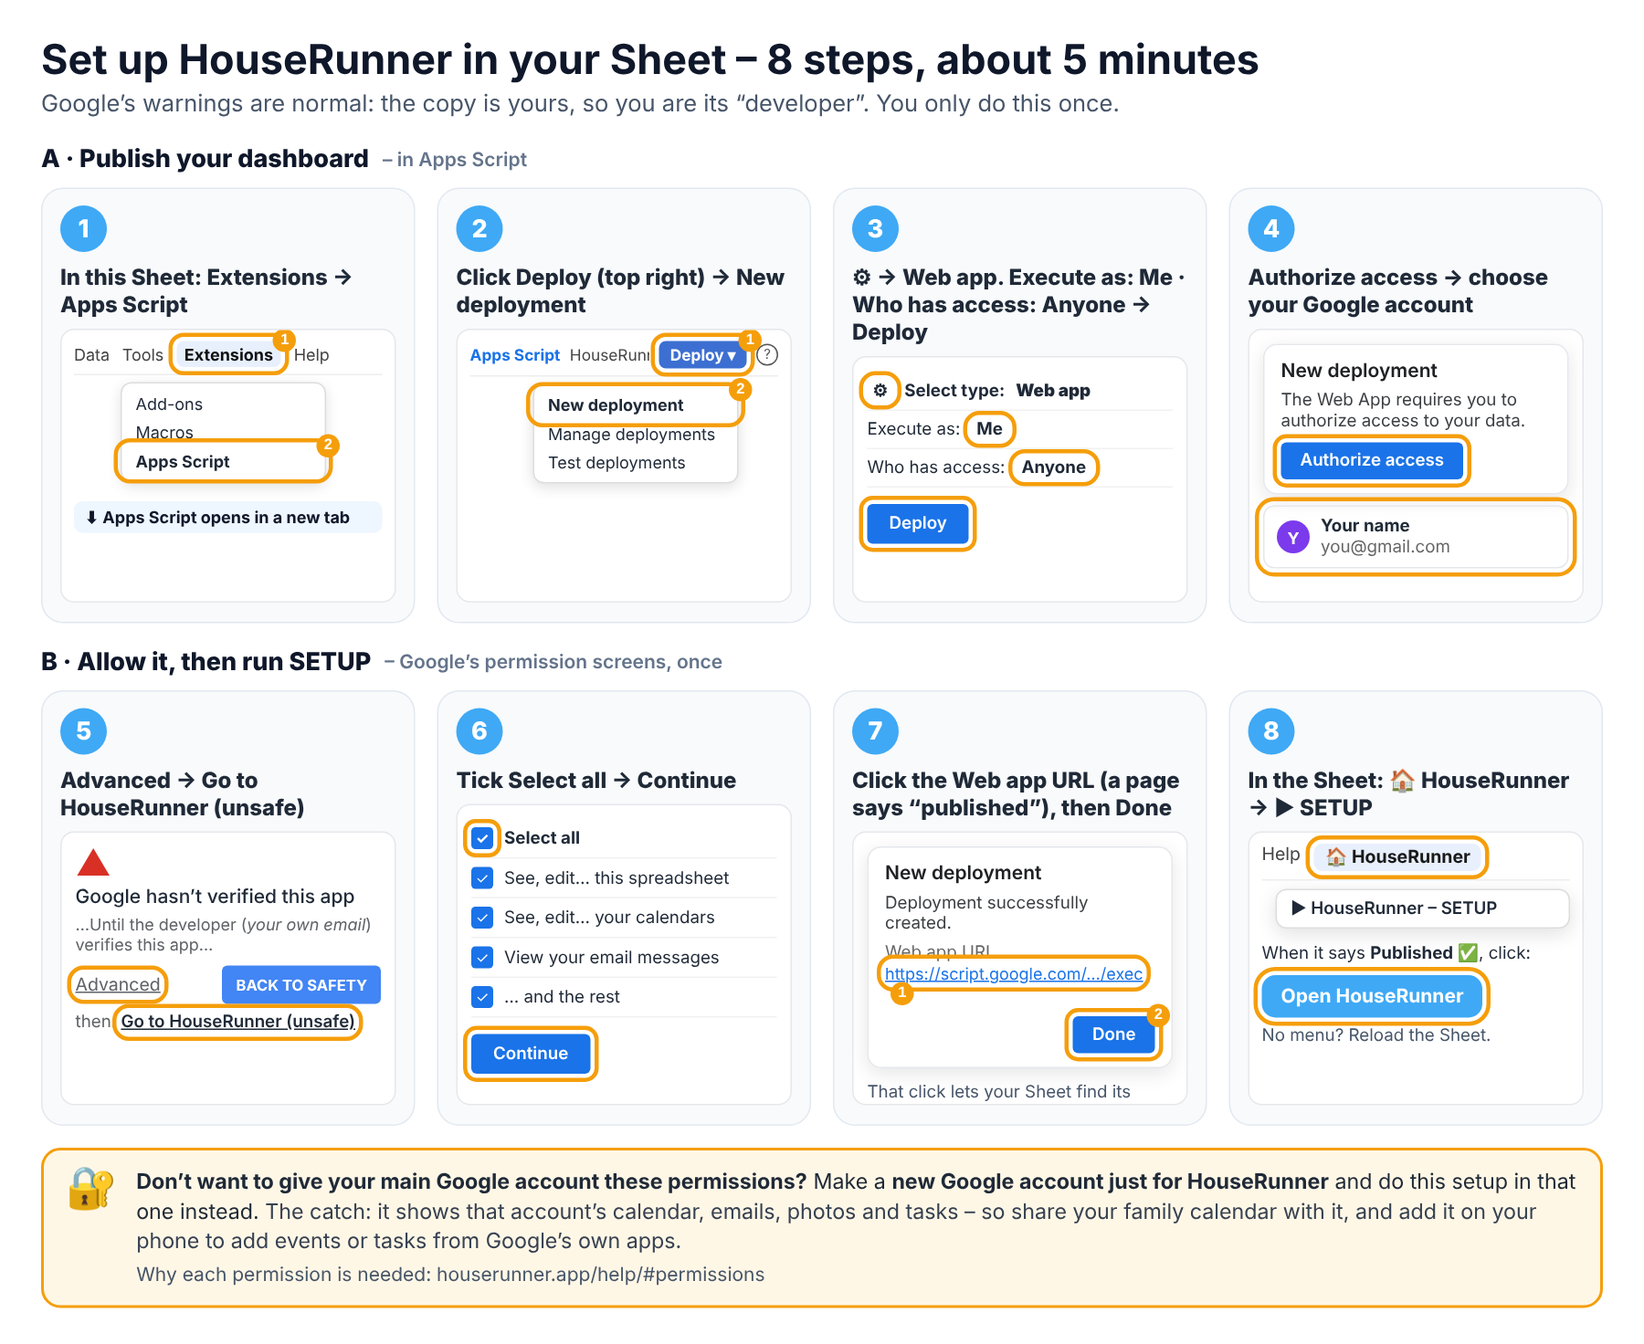
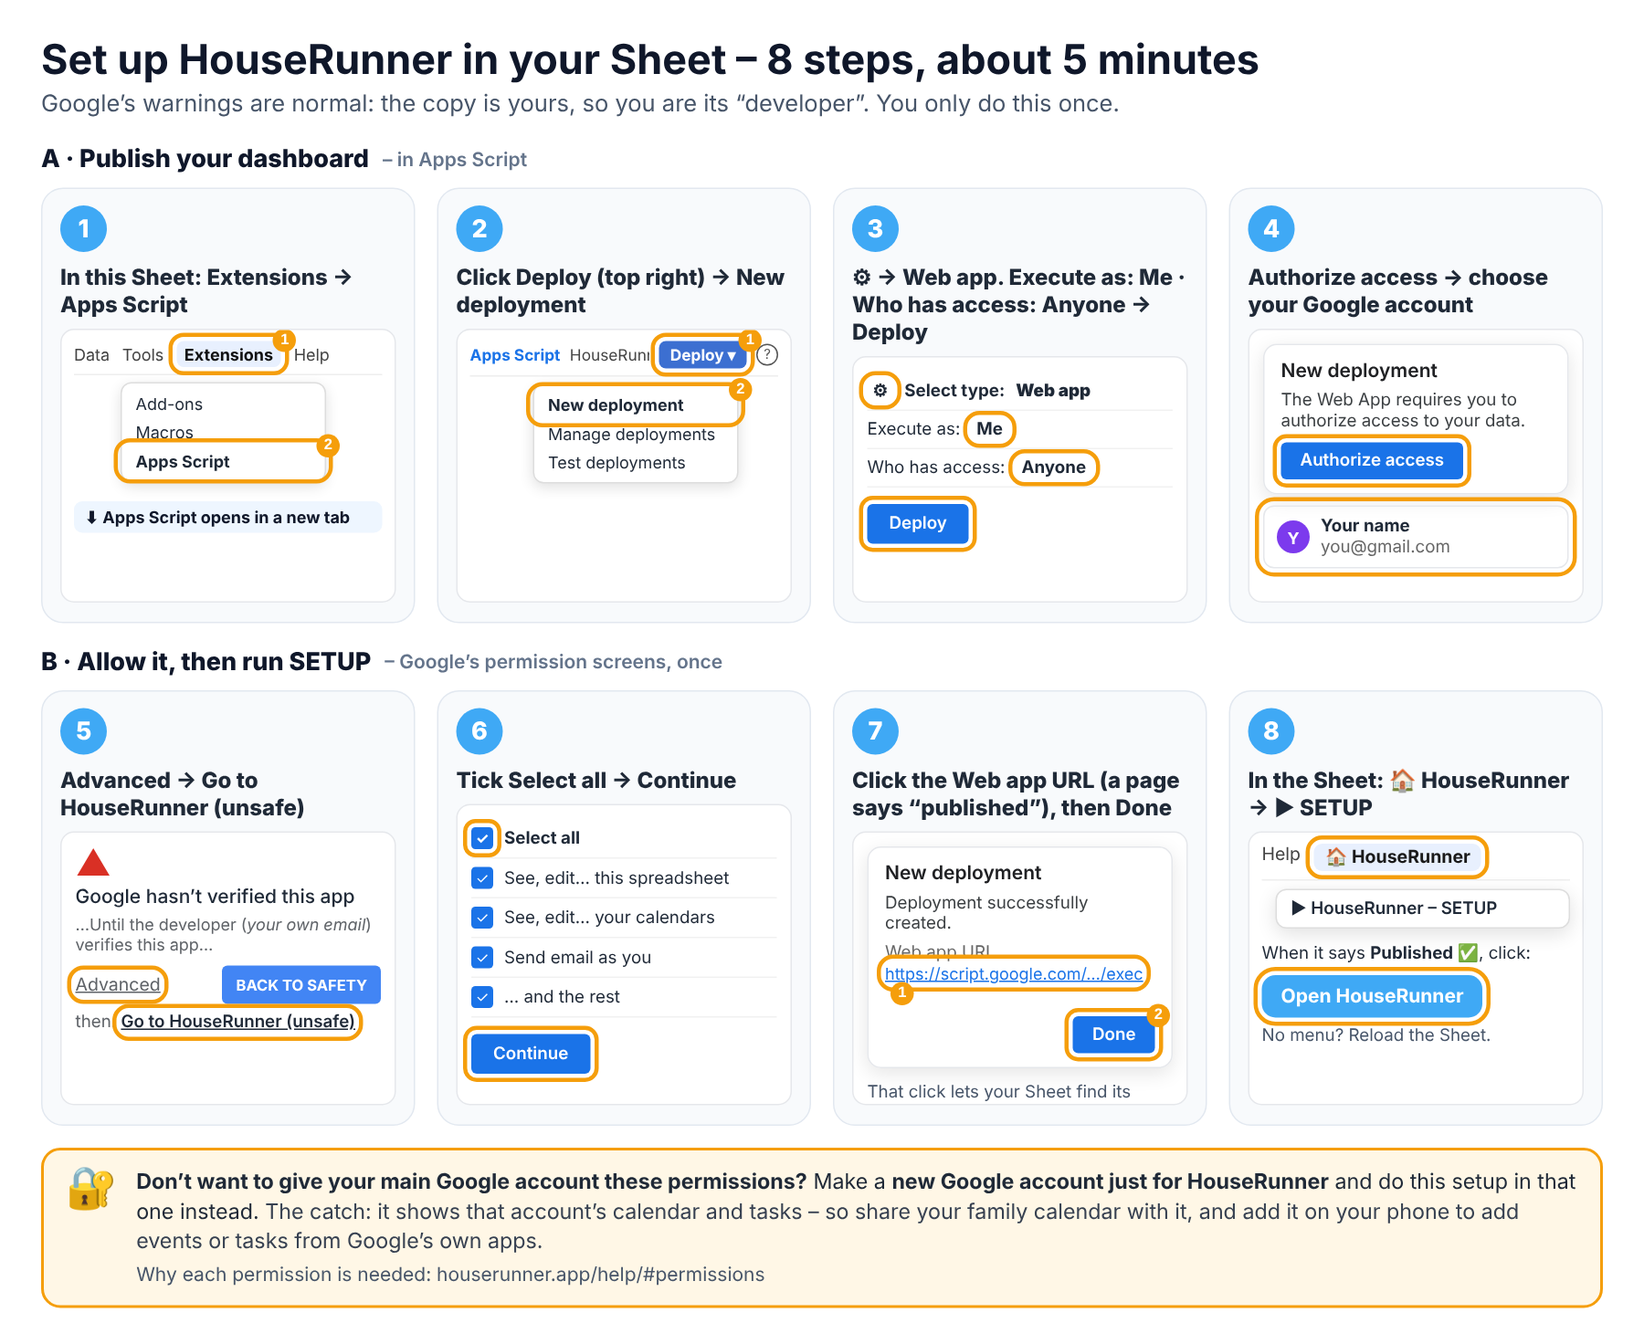
2026.11.285: no Gmail reading or Drive permission; Parcels removed
Claude-Session: https://claude.ai/code/session_01R2kV4GW3UVFR51NzUKtdLQ

Changed region(s): [[0.4356, 0.875, 0.9333, 0.9062], [0.0933, 0.9062, 0.4044, 0.9375], [0.3111, 0.6875, 0.4356, 0.7188]]

diff --git a/setup/guide/setup.js b/setup/guide/setup.js
@@ -17,14 +17,12 @@
             '<p><b>All of them are needed</b> – please leave every box ticked (setup asks again for any that aren’t):</p><ul class="mute">' +
             '<li><b>This spreadsheet</b> (“the spreadsheets this application has been installed in”) – your family’s information is kept in your own Sheet. It can’t see your other spreadsheets.</li>' +
             '<li><b>Google Calendar</b> – the calendar, adding events, birthdays and the holiday countdown.</li>' +
-            '<li><b>Gmail, read only</b> (“view your email messages”) – the <b>Parcels</b> widget finds delivery emails. It can’t change or delete anything.</li>' +
             '<li><b>Send email as you</b> – emails <b>you</b> a backup of your private links.</li>' +
-            '<li><b>Google Drive (see files)</b> – the <b>Photo slideshow</b> from a folder you choose.</li>' +
             '<li><b>Google Tasks</b> – the <b>To-Do List (Google)</b>.</li>' +
             '<li><b>Connect to an external service</b> – fetching the HouseRunner program, live information (weather, trains, traffic…) and the licence check.</li>' +
             '<li><b>Display content in prompts and sidebars</b> – the 🏠 HouseRunner menu in your Sheet. <b>Run when you’re not present</b> – the timers that keep it up to date.</li>' +
             '<div class="note warn"><b>Don’t want to give your main Google account these permissions?</b> Make a <a href="https://accounts.google.com/signup" target="_blank" rel="noopener">new Google account just for HouseRunner</a> and do this setup signed in to that one. ' +
-            'The catch: it shows that account’s calendar, emails, photos and tasks – so share your family calendar with it, and add it on your phone to add events or tasks from Google’s own apps.</div>' +
+            'The catch: it shows that account’s calendar and tasks – so share your family calendar with it, and add it on your phone to add events or tasks from Google’s own apps.</div>' +
             '</div>';
     }
     function save() { try { localStorage.setItem(KEY, JSON.stringify(S)); } catch (e) { /* ignore */ } }
@@ -170,11 +168,11 @@
                     '<li><b>Your phone</b> – you’ll put the <b>Family Admin</b> app on it. It’s important: if this website ever forgets your family, the app is how you connect it again (we’ll also email you a backup link).</li></ul>' +
                     '<p class="mute small">No licence key yet? That’s fine – you get a 14-day free trial and can add it later. No display yet? You can try the dashboard in another tab on this computer.</p></div>' +
                 '<div class="note"><h3>🔐 Before you start: Google will ask for permissions</h3>' +
-                    '<p>HouseRunner runs as a small program in a Google Sheet in <b>your</b> Google account, so Google asks you to allow it to use parts of that account – Sheets, Calendar, Gmail (for the Parcels widget), Drive (for photos), Tasks. ' +
+                    '<p>HouseRunner runs as a small program in a Google Sheet in <b>your</b> Google account, so Google asks you to allow it to use parts of that account – Sheets, Calendar, Tasks, and sending you an email. ' +
                     'Google shows a red “Google hasn’t verified this app” page on the way: that’s normal for your own private copy. When it lists the permissions, click <b>Select all</b> – HouseRunner needs every one. ' +
                     '<a href="../../help/#permissions" target="_blank" rel="noopener">Why each permission is needed ›</a></p>' +
                     '<p><b>Rather keep it away from your main Google account?</b> You can <a href="https://accounts.google.com/signup" target="_blank" rel="noopener">make a new Google account</a> just for HouseRunner, and do this whole setup signed in to that one. ' +
-                    'The catch: the calendar, Gmail parcels, photos and Google Tasks it shows are that account’s, not your main one’s – so share your family calendar with the new account (Google Calendar → Settings → Share with specific people), ' +
+                    'The catch: the calendar and Google Tasks it shows are that account’s, not your main one’s – so share your family calendar with the new account (Google Calendar → Settings → Share with specific people), ' +
                     'and to add events or tasks from your phone’s own Google apps, add the new account on your phone too. HouseRunner’s own phone apps work either way.</p></div>' +
                 '<div class="card big"><h3>How it works</h3>' +
                 '<p>HouseRunner is standard software that runs on your display and your phones. Everything that belongs to your family – names, the calendar, ' +

diff --git a/shared/privacy.js b/shared/privacy.js
@@ -3,12 +3,12 @@
  * (Plain English draft – have it checked before giving the dashboard to people outside your own family.)
  */
 window.FD_PRIVACY = {
-    version: '6',
+    version: '7',
     updated: '8 November 2026',
     summary: [
         'Your family’s information is kept in <b>your own Google account</b> (a Google Sheet and script you own). The people who make HouseRunner can’t see it.',
         'To show live information, your Google script sends small pieces of information to the services you turn on – mainly <b>your home location</b> (for weather, traffic, buses and flights), your <b>postcode</b> (bins) and your <b>API keys</b>.',
-        'The <b>Parcels</b> widget reads delivery emails in your Gmail, and the screen shows the sender and subject line. Calendar, Tasks, Drive photos and Spotify are only used if you turn those widgets on.',
+        'HouseRunner can’t read your email or your Google Drive. Calendar, Tasks and Spotify are only used if you turn those widgets on; the photo slideshow shows a Drive folder or Google Photos album only if you share it by link.',
         'Anyone with your <b>setup links or access code</b> can see and change your dashboard. Only give them to your family.',
         'Once a day your script checks your <b>licence key</b> with the seller’s licence server. It sends only the key, a random number for this dashboard and the version number.',
         'Live information comes from other services and may be wrong or late. Don’t rely on it for anything important or safety-critical.',
@@ -16,12 +16,10 @@ window.FD_PRIVACY = {
     full: '' +
         '<h3>Who holds your information</h3><p>Everything you put into HouseRunner – children’s names, points, tasks, reminders, notes, lists, settings and API keys – is stored in a Google Sheet in your own Google account, and is processed by a Google script that you publish from that Sheet. The people who make and host HouseRunner do not receive or store any of it. You can see it all in the Sheet, and you can delete it at any time by deleting the Sheet (and its web app deployment).</p>' +
         '<h3>What the app files are</h3><p>The dashboard, Family Admin and the website are all web pages at houserunner.app, hosted on GitHub Pages. When a device loads them, GitHub (like any website) receives the device’s IP address. The pages then talk only to your own Google script. The website and its welcome page load a QR-code library from cdnjs.cloudflare.com.</p>' +
-        '<h3>Google permissions</h3><p>When you set up your Sheet, Google asks you to allow nine things. Some are worded broadly (“all” your calendars or files) because Google doesn’t offer narrower versions for a script like this. What HouseRunner actually does with each:</p><ul>' +
+        '<h3>Google permissions</h3><p>When you set up your Sheet, Google asks you to allow seven things. Some are worded broadly (“all” your calendars) because Google doesn’t offer narrower versions for a script like this. What HouseRunner actually does with each:</p><ul>' +
         '<li><b>This spreadsheet</b> – reads and writes your own HouseRunner Sheet. It has no access to your other spreadsheets.</li>' +
         '<li><b>Calendar</b> – shows your family calendar’s events, and adds or changes the ones you enter in HouseRunner.</li>' +
-        '<li><b>Gmail, read only</b> – the Parcels widget reads delivery emails. It can’t change, send or delete any email.</li>' +
         '<li><b>Send email as you</b> – HouseRunner emails you a backup of your private links.</li>' +
-        '<li><b>Drive</b> (“see and download”) – the photo slideshow reads the folder you choose.</li>' +
         '<li><b>Tasks</b> – the To-Do List (Google) widget.</li>' +
         '<li><b>Connect to an external service</b> – weather, traffic, trains, bins and the other widgets you switch on (listed below), and HouseRunner’s licence check.</li>' +
         '<li><b>Run when you’re not present</b> – the timers that keep the dashboard up to date overnight.</li>' +

diff --git a/help/topics.js b/help/topics.js
@@ -22,9 +22,7 @@ window.FD_HELP = [
 <ul>
 <li><b>See, edit, create and delete only the specific spreadsheets this application has been installed in</b> – your family’s information is kept in your own Sheet. HouseRunner can’t see your other spreadsheets.</li>
 <li><b>Google Calendar</b> – the calendar screen, adding events, Today &amp; tomorrow, birthdays and the holiday countdown.</li>
-<li><b>View your email messages and settings</b> (Gmail, read only) – the <b>Parcels</b> widget looks for delivery emails. It can’t change, send or delete anything.</li>
 <li><b>Send email as you</b> – HouseRunner emails <b>you</b> a backup of your private links.</li>
-<li><b>Google Drive</b> (see and download files) – the <b>Photo slideshow</b> from a folder you choose. Read only.</li>
 <li><b>Google Tasks</b> – the <b>To-Do List (Google)</b>.</li>
 <li><b>Connect to an external service</b> – downloading the HouseRunner program, live information (weather, trains, buses, traffic, flights, news) and the daily licence check.</li>
 <li><b>Display and run third-party web content in prompts and sidebars</b> – the 🏠 HouseRunner menu and its windows in your Sheet.</li>
@@ -32,7 +30,7 @@ window.FD_HELP = [
 </ul>
 <p>If one is unticked, ▶ HouseRunner – SETUP asks again until all are allowed. If one is taken away later, only the part that needs it stops, and says which permission it needs.</p>
 <h2>Rather not give your main Google account these permissions? Use a separate one</h2>
-<p>If you’d rather not give your main Google account these permissions, make a <a href="https://accounts.google.com/signup" target="_blank" rel="noopener">new Google account</a> just for HouseRunner and do the setup signed in to it. The catch: the calendar, parcels, photos and tasks it shows are that account’s. Share your family calendar with the new account (Google Calendar → ⚙ Settings → your calendar → <b>Share with specific people</b>, “Make changes to events”), and add the new account on your phone if you want to add events or tasks from Google’s own apps. HouseRunner’s phone apps work either way.</p>
+<p>If you’d rather not give your main Google account these permissions, make a <a href="https://accounts.google.com/signup" target="_blank" rel="noopener">new Google account</a> just for HouseRunner and do the setup signed in to it. The catch: the calendar and tasks it shows are that account’s. Share your family calendar with the new account (Google Calendar → ⚙ Settings → your calendar → <b>Share with specific people</b>, “Make changes to events”), and add the new account on your phone if you want to add events or tasks from Google’s own apps. HouseRunner’s phone apps work either way.</p>
 `
   },
   {
@@ -217,7 +215,7 @@ window.FD_HELP = [
     id: 'account', icon: '📦', title: 'Move to a different Google account',
     summary: 'You can move the whole dashboard to another Google account – for example a Gmail account just for the dashboard – and keep everything.',
     body: `
-<p>Some families prefer the dashboard’s permissions (calendar, Gmail for parcels…) to be on a separate Google account rather than their main one. Moving takes about 10 minutes and nothing is lost.</p>
+<p>Some families prefer the dashboard’s permissions (calendar, tasks…) to be on a separate Google account rather than their main one. Moving takes about 10 minutes and nothing is lost.</p>
 <ol>
 <li>If you haven’t got one, make the new Google account (e.g. at gmail.com).</li>
 <li>On a computer (or in Family Admin): <b>System → My data (Google) → Move to a different Google account</b>. Type the new account’s email and press <b>Make a moving pack</b>. It gives you a link – copy it or send it to yourself.</li>

diff --git a/index.html b/index.html
@@ -24,11 +24,11 @@
         window.FD_DESK = true; window.FD_PHONE = !!phone;
     })();
     </script>
-    <link rel="stylesheet" href="shared/base.css?v=202611284">
-    <link rel="stylesheet" href="admin/admin.css?v=202611284">
-    <link rel="stylesheet" href="setup/desk.css?v=202611284">
-    <link rel="stylesheet" href="setup/editor.css?v=202611284">
-    <link rel="stylesheet" href="admin/phone.css?v=202611284">
+    <link rel="stylesheet" href="shared/base.css?v=202611285">
+    <link rel="stylesheet" href="admin/admin.css?v=202611285">
+    <link rel="stylesheet" href="setup/desk.css?v=202611285">
+    <link rel="stylesheet" href="setup/editor.css?v=202611285">
+    <link rel="stylesheet" href="admin/phone.css?v=202611285">
     <style>
 #landing { min-height: 100vh; }
 #landing .ld-wrap { max-width: 1100px; margin: 0 auto; padding: 30px 18px 50px; }
@@ -206,20 +206,20 @@
     </div></div>
     <!-- Connected: houserunner.app (computer) or Family Admin (phone) – the same app. -->
     <div id="app"></div>
-    <script src="shared/storecheck.js?v=202611284"></script>
-    <script src="shared/fd.js?v=202611284"></script>
-    <script src="dashboard/scripts/platform.js?v=202611284"></script>
-    <script src="shared/pair.js?v=202611284"></script>
-    <script src="shared/qrcode.js?v=202611284"></script>
-    <script src="shared/privacy.js?v=202611284"></script>
-    <script src="shared/countries.js?v=202611284"></script>
-    <script src="setup/config.js?v=202611284"></script>
-    <script src="help/topics.js?v=202611284"></script>
-    <script src="setup/editor.js?v=202611284"></script>
-    <script src="setup/calsetup.js?v=202611284"></script>
-    <script src="shared/icons.js?v=202611284"></script>
+    <script src="shared/storecheck.js?v=202611285"></script>
+    <script src="shared/fd.js?v=202611285"></script>
+    <script src="dashboard/scripts/platform.js?v=202611285"></script>
+    <script src="shared/pair.js?v=202611285"></script>
+    <script src="shared/qrcode.js?v=202611285"></script>
+    <script src="shared/privacy.js?v=202611285"></script>
+    <script src="shared/countries.js?v=202611285"></script>
+    <script src="setup/config.js?v=202611285"></script>
+    <script src="help/topics.js?v=202611285"></script>
+    <script src="setup/editor.js?v=202611285"></script>
+    <script src="setup/calsetup.js?v=202611285"></script>
+    <script src="shared/icons.js?v=202611285"></script>
     <!-- A phone gets Family Admin, written for the phone; a computer houserunner.app. -->
-    <script>document.write('<script src="admin/' + (window.FD_PHONE ? 'phone' : 'app') + '.js?v=202611284"><\/script>');</script>
+    <script>document.write('<script src="admin/' + (window.FD_PHONE ? 'phone' : 'app') + '.js?v=202611285"><\/script>');</script>
 <script>
  (function () {
    'use strict';

diff --git a/setup/guide/index.html b/setup/guide/index.html
@@ -6,8 +6,8 @@
     <title>HouseRunner Setup</title>
     <meta name="theme-color" content="#0c0e12">
     <link rel="icon" href="../../shared/brand/icon-192.png"><link rel="apple-touch-icon" href="../../shared/brand/apple-touch-icon.png">
-    <link rel="stylesheet" href="../editor.css?v=202611284">
-    <link rel="stylesheet" href="setup.css?v=202611284">
+    <link rel="stylesheet" href="../editor.css?v=202611285">
+    <link rel="stylesheet" href="setup.css?v=202611285">
 </head>
 <body>
     <header class="cfg-top"><a class="cfg-title hr-title" href="../../"><img src="../../shared/brand/mark.svg" alt="" class="hr-mini"><span>House<span class="hr-acc">Runner</span></span></a><a class="cfg-dash" href="../../dashboard/" target="_blank" rel="noopener">▶ Dashboard</a><a class="cfg-help" href="../../help/" target="_blank" rel="noopener">❓ Help</a></header>
@@ -29,8 +29,8 @@
     <script src="../../shared/countries.js"></script>
     <script src="../../shared/pair.js"></script>
     <script src="../../shared/qrcode.js"></script>
-    <script src="../calsetup.js?v=202611284"></script>
-    <script src="../../shared/storecheck.js?v=202611284"></script>
-    <script src="setup.js?v=202611284"></script>
+    <script src="../calsetup.js?v=202611285"></script>
+    <script src="../../shared/storecheck.js?v=202611285"></script>
+    <script src="setup.js?v=202611285"></script>
 </body>
 </html>

diff --git a/sw.js b/sw.js
@@ -1,6 +1,6 @@
 /* Keeps houserunner.app (the Configurator / Family Admin) available offline. Family data always comes live from Google.
  * The screen, the Family Calendar app and the licence pages look after themselves, so they're left alone here. */
-const CACHE = 'root-v138';
+const CACHE = 'root-v139';
 const FILES = ["./", "index.html", "manifest.webmanifest", "admin/app.js", "admin/phone.js", "admin/phone.css", "admin/admin.css", "admin/icons/icon-192.png", "setup/desk.css", "setup/editor.css", "setup/editor.js", "setup/calsetup.js", "setup/config.js",
   "help/topics.js", "shared/fd.js", "shared/head.js", "shared/storecheck.js", "shared/move.js", "shared/base.css", "shared/brand/mark.svg", "shared/privacy.js", "shared/countries.js", "shared/icons.js", "shared/pair.js", "shared/qrcode.js"];
 const OWN = /^\/(screen|dashboard|calendar|licencing|windows|downloads|Scripts)\//;

diff --git a/admin/sw.js b/admin/sw.js
@@ -1,5 +1,5 @@
 /* Keeps the app itself available offline. Calendar and points data always come live from Google. */
-const CACHE = 'admin-v287';
+const CACHE = 'admin-v288';
 const FILES = ["./", "index.html", "app.js", "admin.css", "manifest.webmanifest", "icons/icon-192.png", "../shared/fd.js", "../shared/storecheck.js", "../shared/move.js", "../shared/base.css", "../shared/brand/symbol.svg", "../shared/privacy.js", "../shared/countries.js", "../shared/pair.js", "../shared/qrcode.js"];
 self.addEventListener('install', e => { e.waitUntil(caches.open(CACHE).then(c => c.addAll(FILES)).then(() => self.skipWaiting())); });
 self.addEventListener('activate', e => { e.waitUntil(caches.keys().then(ks => Promise.all(ks.filter(k => k.startsWith('admin-') && k !== CACHE).map(k => caches.delete(k)))).then(() => self.clients.claim())); });

diff --git a/calendar/sw.js b/calendar/sw.js
@@ -1,5 +1,5 @@
 /* Keeps the app itself available offline. Calendar and points data always come live from Google. */
-const CACHE = 'calendar-v275';
+const CACHE = 'calendar-v276';
 const FILES = ["./", "index.html", "app.js", "calendar.css", "manifest.webmanifest", "icons/icon-192.png", "../shared/fd.js", "../shared/storecheck.js", "../shared/move.js", "../shared/base.css", "../shared/brand/symbol.svg", "../shared/pair.js", "../shared/qrcode.js"];
 self.addEventListener('install', e => { e.waitUntil(caches.open(CACHE).then(c => c.addAll(FILES)).then(() => self.skipWaiting())); });
 self.addEventListener('activate', e => { e.waitUntil(caches.keys().then(ks => Promise.all(ks.filter(k => k.startsWith('calendar-') && k !== CACHE).map(k => caches.delete(k)))).then(() => self.clients.claim())); });

diff --git a/shared/fd.js b/shared/fd.js
@@ -191,7 +191,7 @@
         clearConfig: function () { cfg = {}; try { localStorage.removeItem(KEY); } catch (e) { /* ignore */ } },
         parseSetup: parseSetup,
 
-        VERSION: '2026.11.284',     // the phone apps' version (same number as the screen's)
+        VERSION: '2026.11.285',     // the phone apps' version (same number as the screen's)
         get: function (action, params, timeout) {
             var q = 'action=' + encodeURIComponent(action) + '&code=' + encodeURIComponent(cfg.code) + '&t=' + Date.now();
             Object.keys(params || {}).forEach(function (k) { q += '&' + k + '=' + encodeURIComponent(params[k]); });

diff --git a/dashboard/scripts/notices.js b/dashboard/scripts/notices.js
@@ -6,7 +6,7 @@
  */
 (function () {
     'use strict';
-    var APP_VERSION = '2026.11.284';
+    var APP_VERSION = '2026.11.285';
     var SNOOZE_KEY = 'familyDashboard.updateSnooze', SCRIPT_KEY = 'familyDashboard.scriptNag';
     var latest = null, lastLayout = null, privacyOpen = false, lastTouch = Date.now(), updating = false;
     var IDLE_MS = 3 * 60000;
